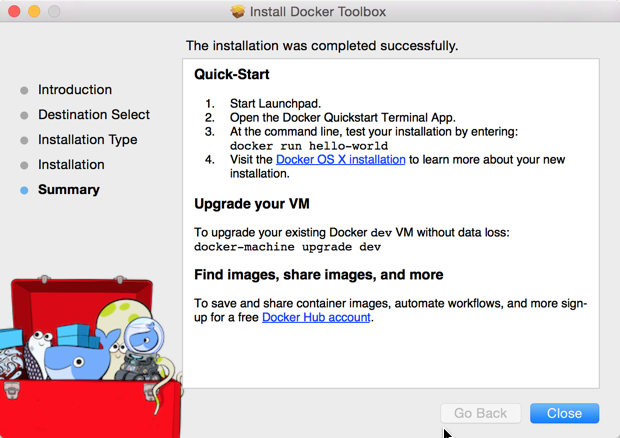
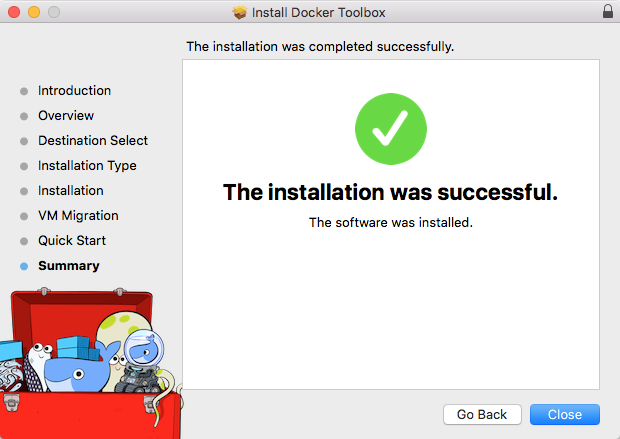
Updates for Toolbox 1.8.1c

diff --git a/docs/mac/step_one.md b/docs/mac/step_one.md
@@ -16,7 +16,7 @@ You install Docker using Docker Toolbox. Docker Toolbox includes the following D
 * Docker Compose for running the `docker-compose` binary
 * Kitematic, the Docker GUI
 * a shell preconfigured for a Docker command-line environment
-* Oracle VM VirtualBox 
+* Oracle VM VirtualBox
 
 Because the Docker daemon uses Linux-specific kernel features, you can't run
 Docker natively in OS X. Instead, you must use `docker-machine` to create and
@@ -27,7 +27,7 @@ attach to a Docker VM on your machine. This VM hosts Docker for you on your Mac.
 Your Mac must be running OS X 10.6 "Snow Leopard" or newer to run Docker.
 To find out what version of the OS you have:
 
-1. Choose **About this Mac** from the Apple menu. 
+1. Choose **About this Mac** from the Apple menu.
 
     ![Which version](/mac/images/which_version.png)
 
@@ -48,39 +48,40 @@ To find out what version of the OS you have:
 3. Install Docker Toolbox by double-clicking the package or by right-clicking
 and choosing "Open" from the pop-up menu.
 
-    The installer launches the "Install Docker Toolbox" dialog.
-    
+    The installer launches an introductory dialog, followed by an overview of what's installed.
+
     ![Install Docker Toolbox](/mac/images/mac-welcome-page.png)
 
 4. Press **Continue** to install the toolbox.
 
     The installer presents you with options to customize the standard
-    installation. 
-  
+    installation.
+
     ![Standard install](/mac/images/mac-page-two.png)
-  
+
     By default, the standard Docker Toolbox installation:
-  
-    * installs binaries for the Docker tools in `/usr/local/bin` 
-    * makes these binaries available to all users 
-    * updates any existing Virtual Box installation 
-  
+
+    * installs binaries for the Docker tools in `/usr/local/bin`
+    * makes these binaries available to all users
+    * updates any existing Virtual Box installation
+
     For now, don't change any of the defaults.
 
 5. Press **Install** to perform the standard installation.
 
      The system prompts you for your password.
-   
+
      ![Password prompt](/mac/images/mac-password-prompt.png)
-   
+
 6. Provide your password to continue with the installation.
 
-     When it completes, the installer provides you with some information you can
-     use to complete some common tasks. You can ignore these for now.
-   
+     When it completes, the installer provides you with some shortcuts. You can ignore this for now and click **Continue**.
+
+     ![Quickstart](/mac/images/mac-page-quickstart.png)
+
+     Then click **Close** to finish the installer.
+
      ![All finished](/mac/images/mac-page-finished.png)
-   
-7. Press **Close** to exit.
 
 
 
@@ -88,7 +89,7 @@ and choosing "Open" from the pop-up menu.
 
 To run a Docker container, you:
 
-* create a new (or start an existing) Docker virtual machine 
+* create a new (or start an existing) Docker virtual machine
 * switch your environment to your new VM
 * use the `docker` client to create, load, and manage containers
 
@@ -98,11 +99,11 @@ Virtual Box VM, it maintains its configuration between uses.
 1. Open the **Launchpad** and locate the Docker Quickstart Terminal icon.
 
     ![Launchpad](/mac/images/applications_folder.png)
-    
+
 2. Click the icon to launch a Docker Quickstart Terminal window.
 
-    The terminal does a number of things to set up Docker Quickstart Terminal for you. 
-    
+    The terminal does a number of things to set up Docker Quickstart Terminal for you.
+
         Last login: Sat Jul 11 20:09:45 on ttys002
         bash '/Applications/Docker Quickstart Terminal.app/Contents/Resources/Scripts/start.sh'
         Get http:///var/run/docker.sock/v1.19/images/json?all=1&filters=%7B%22dangling%22%3A%5B%22true%22%5D%7D: dial unix /var/run/docker.sock: no such file or directory. Are you trying to connect to a TLS-enabled daemon without TLS?
@@ -133,10 +134,10 @@ Virtual Box VM, it maintains its configuration between uses.
 
 3.  Click your mouse in the terminal window to make it active.
 
-    If you aren't familiar with a terminal window, here are some quick tips. 
-    
-    ![Teriminal](/tutimg/terminal.png) 
-    
+    If you aren't familiar with a terminal window, here are some quick tips.
+
+    ![Teriminal](/tutimg/terminal.png)
+
     The prompt is traditionally a `$` dollar sign. You type commands into the
     *command line* which is the area after the prompt. Your cursor is indicated
     by a highlighted area or a `|` that appears in the command line. After
@@ -146,12 +147,12 @@ Virtual Box VM, it maintains its configuration between uses.
 
     The command does some work for you, if everything runs well, the command's
     output looks like this:
-    
+
         $ docker run hello-world
         Unable to find image 'hello-world:latest' locally
         Pulling repository hello-world
-        91c95931e552: Download complete 
-        a8219747be10: Download complete 
+        91c95931e552: Download complete
+        a8219747be10: Download complete
         Status: Downloaded newer image for hello-world:latest
         Hello from Docker.
         This message shows that your installation appears to be working correctly.

diff --git a/docs/windows/step_one.md b/docs/windows/step_one.md
@@ -17,12 +17,12 @@ Windows.
 
 ## Step 1: Check your version
 
-Your machine must be running Windows 7.1, 8/8.1 or newer to run Docker Toolbox. Windows 10 is not supported. To find out what version of Windows you have:
+Your machine must be running Windows 7.1, 8/8.1 or newer to run Docker Toolbox. To find out what version of Windows you have:
 
-1. Right click the windows message and choose **System*. 
+1. Right click the windows message and choose **System*.
 
     ![Which version](/windows/images/win_ver.png)
-    
+
     If you aren't using a supported version, you could consider upgrading your
     operating system.
 
@@ -30,17 +30,17 @@ Your machine must be running Windows 7.1, 8/8.1 or newer to run Docker Toolbox. 
 
     #### For Windows 8 or 8.1
 
-	  Choose **Start > Task Manager** and navigate to the **Performance** tab.          
+	  Choose **Start > Task Manager** and navigate to the **Performance** tab.
 	  Under **CPU** you should see the following:
 
       ![Release page](/windows/images/virtualization.png)
-    
+
     If virtualization is not enabled on your system, follow the manufacturer's instructions for enabling it.
-    
-    ### For Windows 7 
-    
+
+    ### For Windows 7
+
 	  Run the <a href="http://www.microsoft.com/en-us/download/details.aspx?id=592"
-target="_blank"> Microsoft® Hardware-Assisted Virtualization Detection Tool</a> 
+target="_blank"> Microsoft® Hardware-Assisted Virtualization Detection Tool</a>
 and follow the on-screen instructions.
 
 
@@ -50,13 +50,13 @@ In this section, you install the Docker Toolbox software and several "helper" ap
 
 * Docker Client for Windows
 * Docker Toolbox management tool and ISO
-* Oracle VM VirtualBox 
+* Oracle VM VirtualBox
 * Git MSYS-git UNIX tools
 
 If you have a previous version of VirtualBox installed, do not reinstall it with the Docker Toolbox installer. When prompted, uncheck it.
 
 If you have Virtual Box running, you must shut it down before running the
-installer. 
+installer.
 
 1. Go to the <a href="https://www.docker.com/toolbox" targe="_blank">Docker Toolbox</a> page.
 
@@ -65,24 +65,24 @@ installer.
 3. Install Docker Toolbox by double-clicking the installer.
 
     The installer launches the "Setup - Docker Toolbox" dialog.
-    
+
     If Windows security dialog prompts you to allow the program to make a
     change, choose **Yes**. The system displays the **Setup - Docker Toolbox for
     Windows** wizard.
-   
+
       ![Release page](/windows/images/installer_open.png)
 
 4. Press **Next** to accept all the defaults and then **Install**.
 
 	  Accept all the installer defaults. The installer takes a few minutes to install all the components:
-        
+
 5.  When notified by Windows Security the installer will make changes, make sure you allow the installer to make the necessary changes.
-    
+
     When it completes, the installer reports it was successful:
-    
+
     ![Success](/windows/images/finish.png)
-    
-6. Press **Finish**.
+
+6. Uncheck "View Shortcuts in File Explorer" and press **Finish**.
 
 
 ## Step 3. Verify your installation
@@ -93,23 +93,23 @@ In this step, you start Docker Toolbox and run a simple Docker command.
 1. On your Desktop, find the Docker Toolbox icon.
 
     ![Desktop](/windows/images/icon-set.png)
-    
+
 2. Click the icon to launch a Docker Toolbox terminal.
 
     If the system displays a **User Account Control** prompt to allow VirtualBox to make changes to your computer. Choose **Yes**.
 
     The terminal does several things to set up Docker Toolbox for you. When it is done, the terminal displays the `$` prompt.
-    
+
      ![Desktop](/windows/images/b2d_shell.png)
-     
+
     The terminal runs a special `bash` environment instead of the standard Windows command prompt. The `bash` environment is required by Docker.
 
 3.  Make the terminal active by click your mouse next to the `$` prompt.
 
-    If you aren't familiar with a terminal window, here are some quick tips. 
-    
-    ![Teriminal](/tutimg/terminal.png) 
-    
+    If you aren't familiar with a terminal window, here are some quick tips.
+
+    ![Teriminal](/tutimg/terminal.png)
+
     The prompt is traditionally a `$` dollar sign. You type commands into the
     *command line* which is the area after the prompt. Your cursor is indicated
     by a highlighted area or a `|` that appears in the command line. After
@@ -119,12 +119,12 @@ In this step, you start Docker Toolbox and run a simple Docker command.
 
     The command does some work for you, if everything runs well, the command's
     output looks like this:
-    
+
         $ docker run hello-world
         Unable to find image 'hello-world:latest' locally
         Pulling repository hello-world
-        91c95931e552: Download complete 
-        a8219747be10: Download complete 
+        91c95931e552: Download complete
+        a8219747be10: Download complete
         Status: Downloaded newer image for hello-world:latest
         Hello from Docker.
         This message shows that your installation appears to be working correctly.
